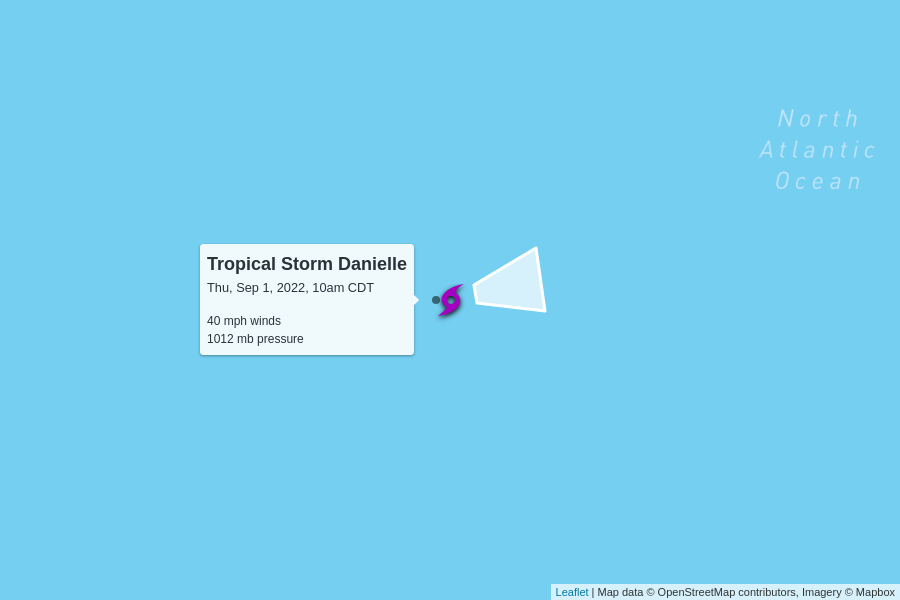
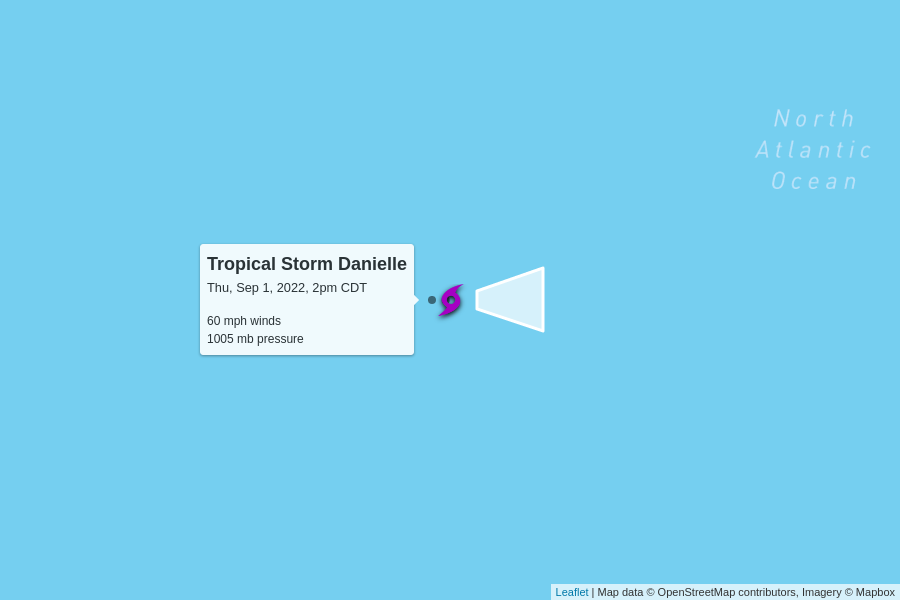
automatic update

diff --git a/docs/index.html b/docs/index.html
@@ -100,7 +100,7 @@
         <td colspan="6" class="storm category-0" >
           <h2>
             Tropical Storm Danielle
-            <p class="updated">last updated <span data-time>2022-09-01T15:00:00.000Z</span></p>
+            <p class="updated">last updated <span data-time>2022-09-01T19:00:00.000Z</span></p>
           </h2>
         </td>
       </tr>
@@ -115,12 +115,12 @@
       </tr>
       <tr>
         <td class="spacer"></td>
-        <td>40 mph</td>
-        <td>1012 mb</td>
+        <td>60 mph</td>
+        <td>1005 mb</td>
         <td>
           2 mph to the east
           <br/>
-          <span style="display: inline-block; font-size: 1.5em; transform: rotate(80deg);">↑</span>
+          <span style="display: inline-block; font-size: 1.5em; transform: rotate(90deg);">↑</span>
         </td>
         <td><a href="https://raw.githubusercontent.com/mgwalker/atlantic-hurricanes/main/data/csv/AL052022.csv">AL052022.csv</a></td>
         <td><a href="https://www.nhc.noaa.gov/archive/2022/DANIELLE.shtml?">NHC advisories</a></td>
